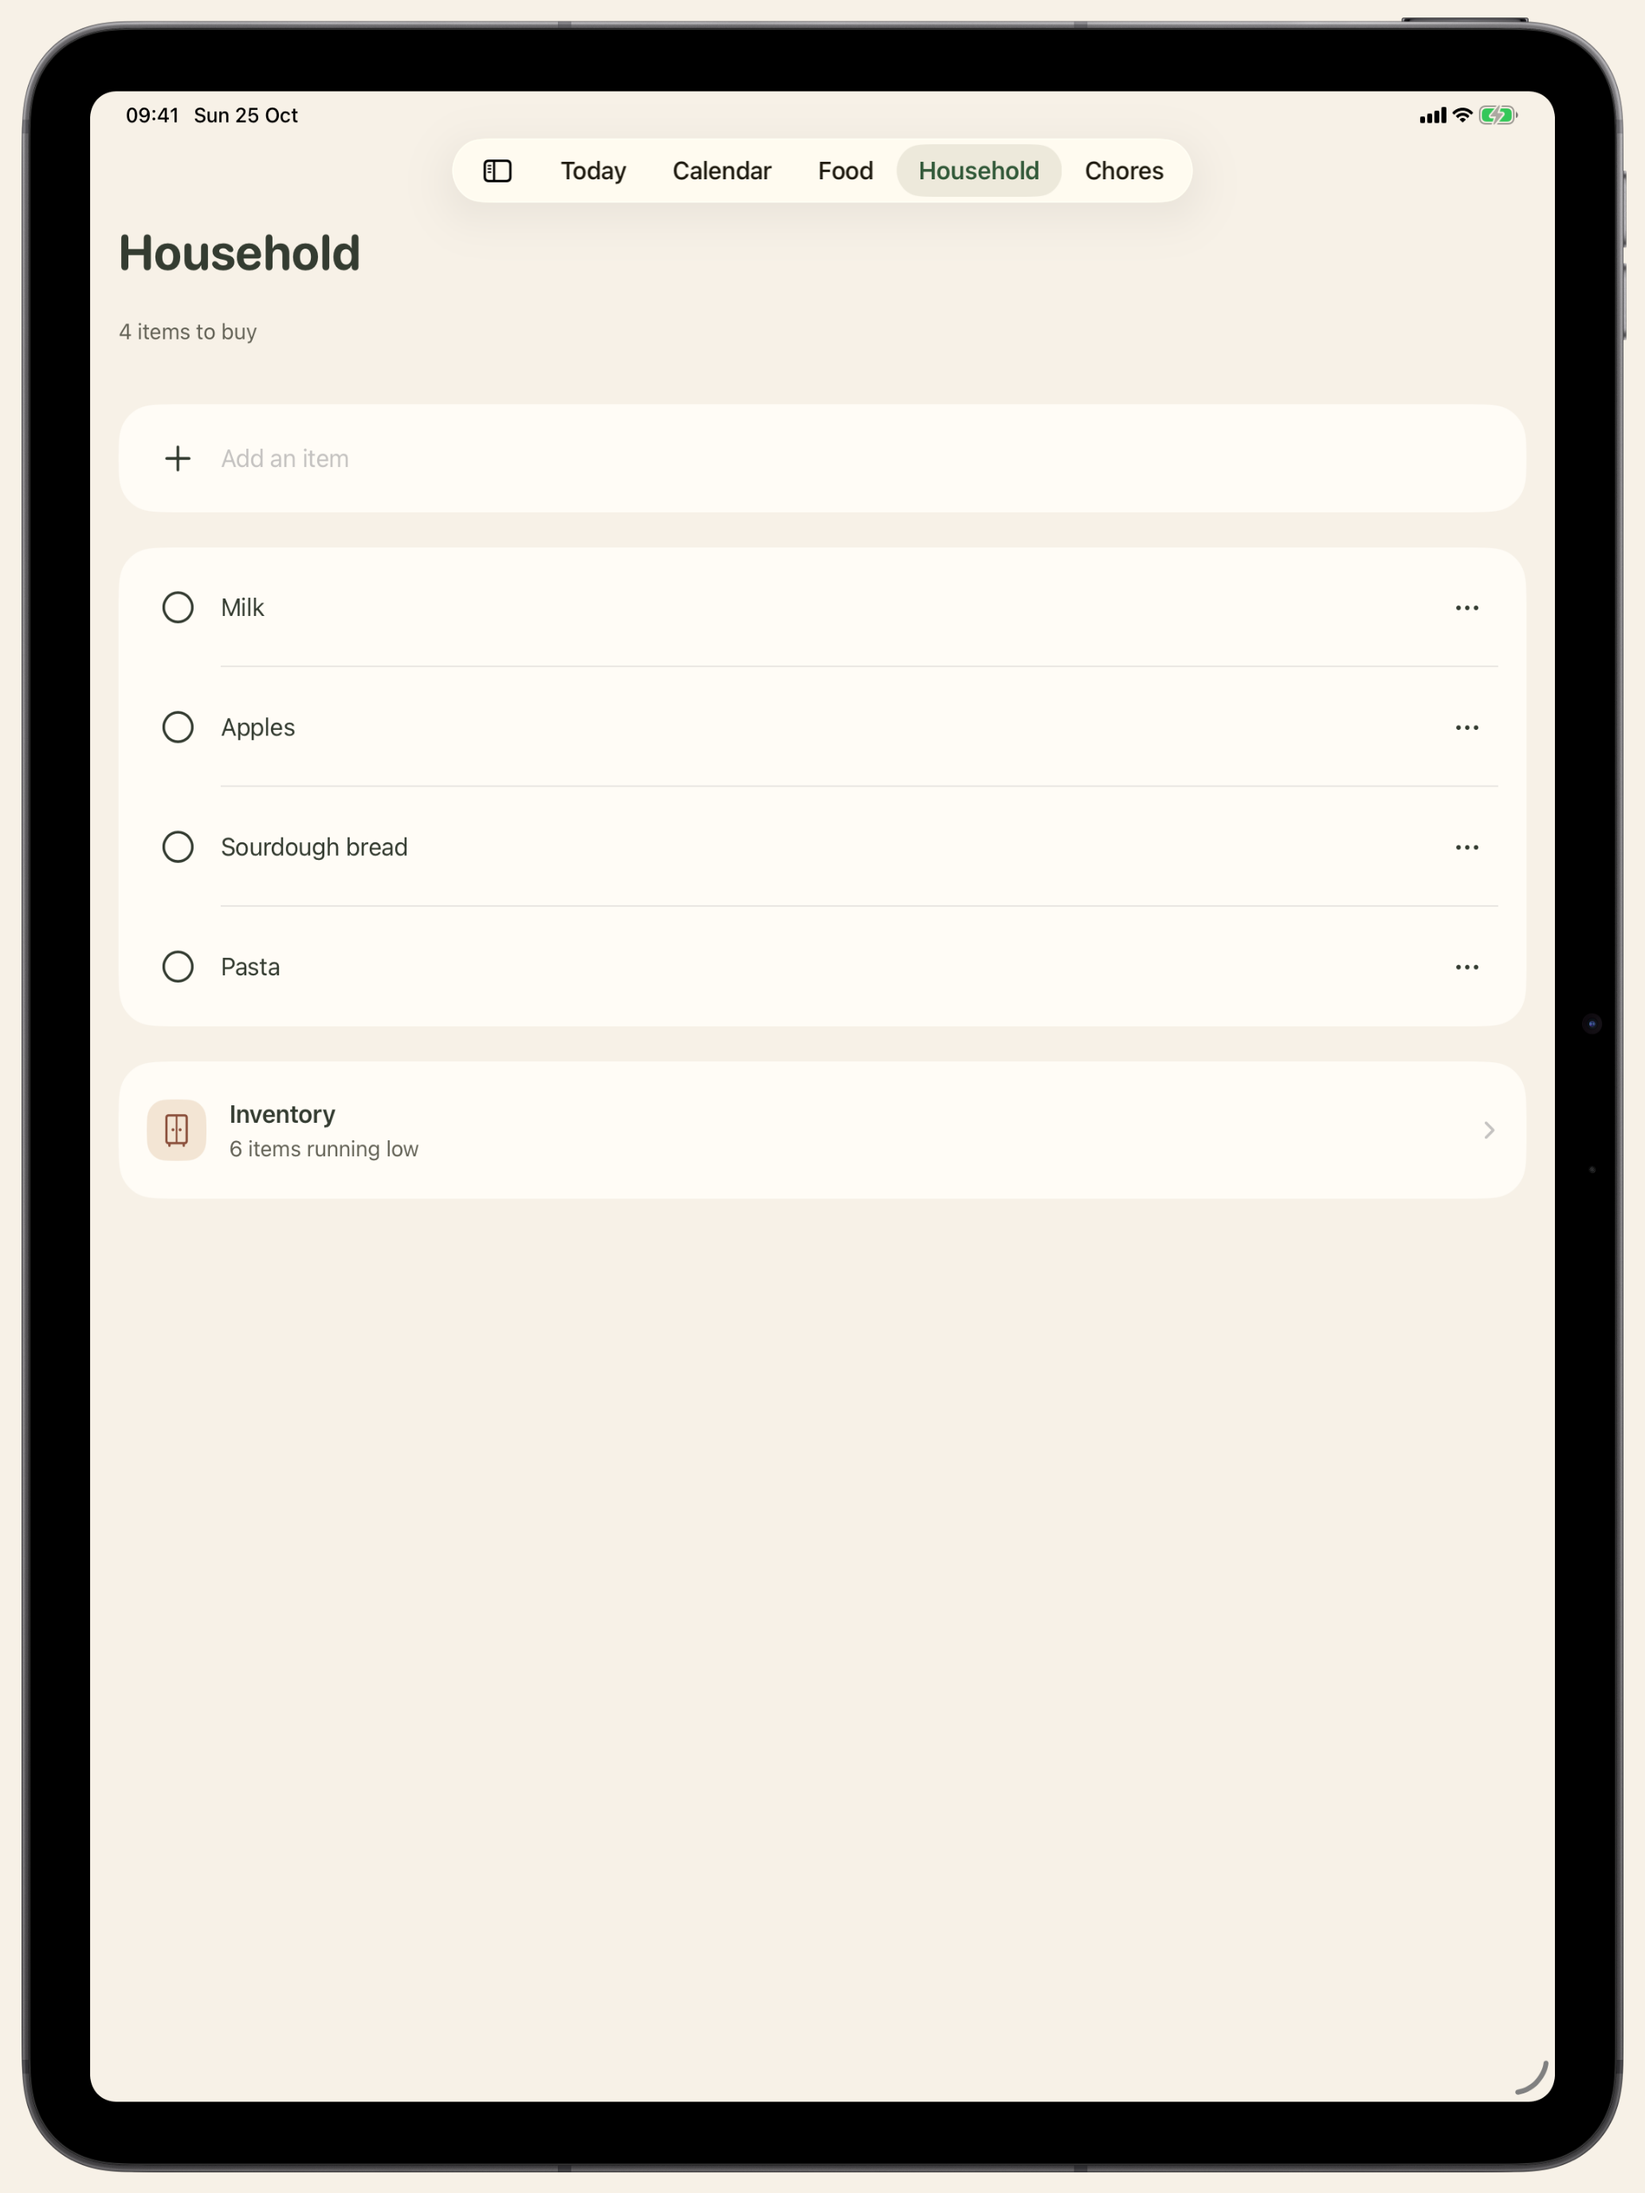
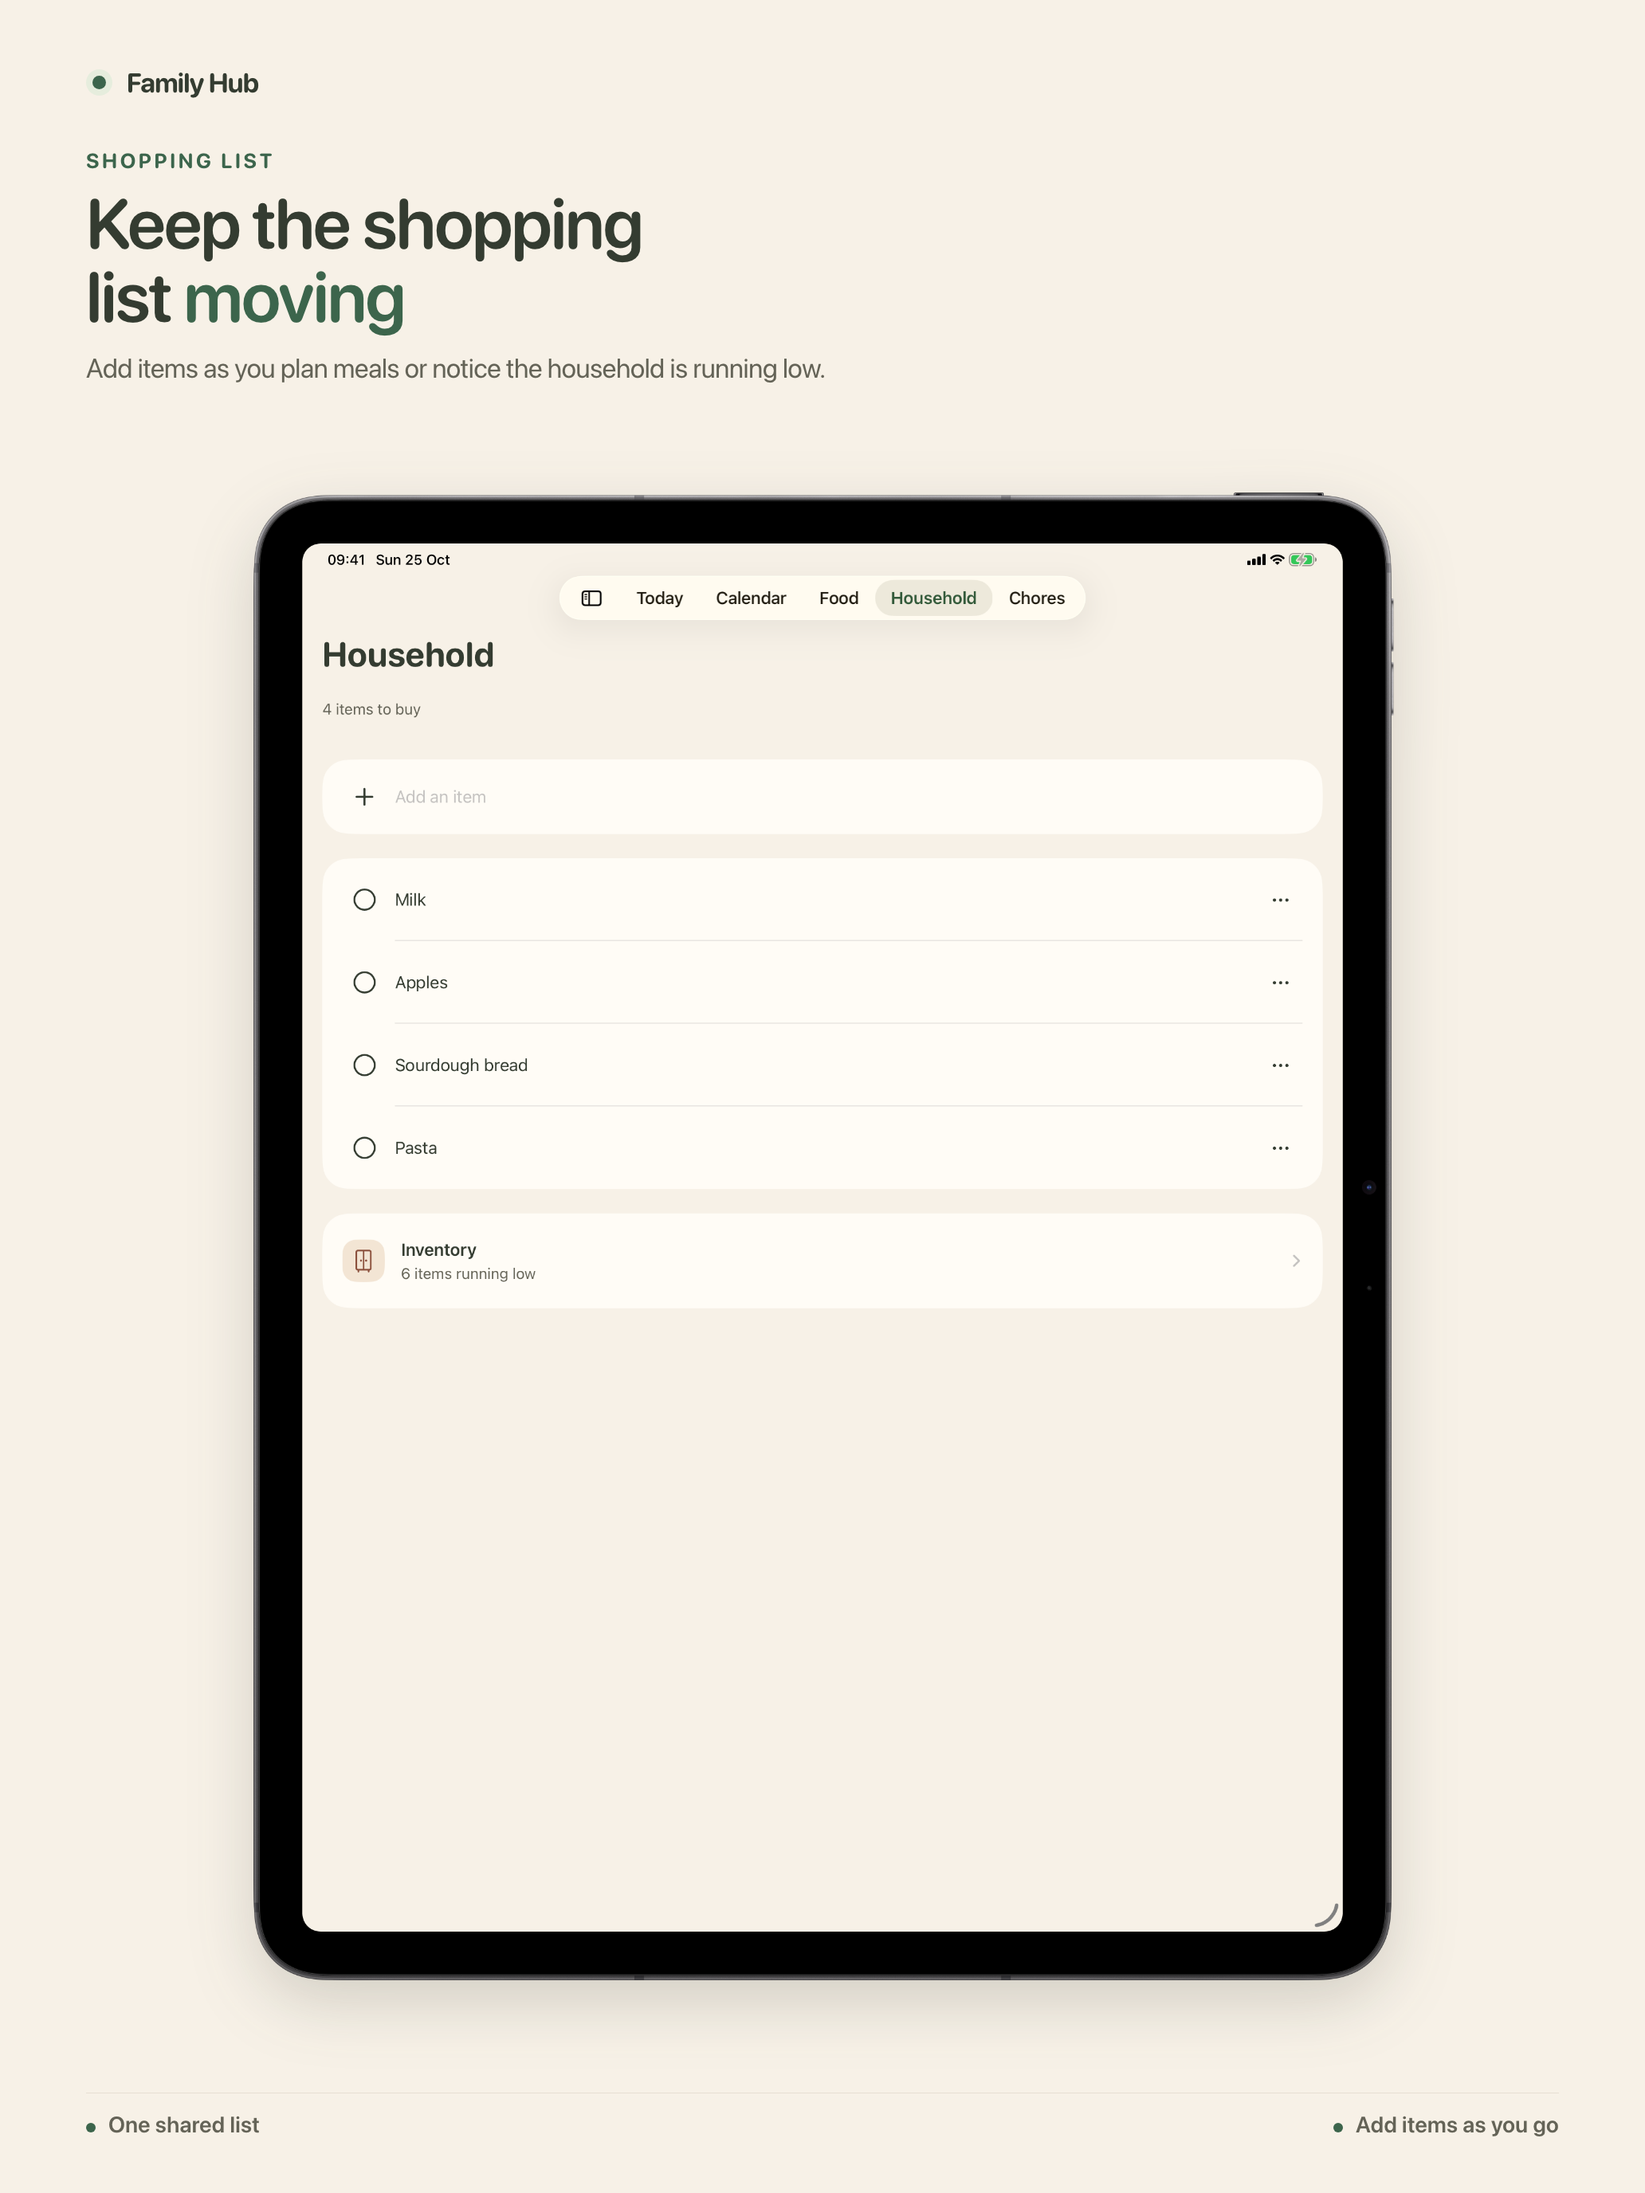
Add marketing layouts to iPad screenshots

diff --git a/ios/marketing/screenshots/slides/ipad-frame.html b/ios/marketing/screenshots/slides/ipad-frame.html
@@ -3,44 +3,142 @@
 <head>
 <meta charset="utf-8">
 <meta name="viewport" content="width=device-width, initial-scale=1">
-<title>Family Hub on iPad</title>
+<title>__EYEBROW__ — Family Hub on iPad</title>
 <style>
   * { box-sizing: border-box; }
+  @font-face {
+    font-family: "Family Hub Rounded";
+    src: url("file:///System/Library/Fonts/SFNSRounded.ttf") format("truetype");
+    font-weight: 100 900;
+  }
   html, body {
     width: 2064px;
     height: 2752px;
     margin: 0;
     overflow: hidden;
     background: #f7f1e7;
+    color: #343c31;
+    font-family: -apple-system, BlinkMacSystemFont, "SF Pro Text", sans-serif;
+    -webkit-font-smoothing: antialiased;
   }
-  .canvas {
-    position: relative;
+  main {
+    display: flex;
+    flex-direction: column;
     width: 100%;
     height: 100%;
-    background: #f7f1e7;
+    padding: 82px 108px 70px;
+  }
+  .brand {
+    display: flex;
+    align-items: center;
+    gap: 18px;
+    height: 42px;
+    font-family: "Family Hub Rounded", "SF Pro Rounded", ui-rounded, sans-serif;
+    font-size: 34px;
+    font-weight: 700;
+    letter-spacing: -0.02em;
+  }
+  .brand-mark {
+    width: 17px;
+    height: 17px;
+    margin: 0 8px;
+    border-radius: 50%;
+    background: #3c654c;
+    box-shadow: 0 0 0 8px #e6eddd;
+  }
+  .intro { margin-top: 62px; }
+  .eyebrow {
+    margin: 0 0 18px;
+    color: #3c654c;
+    font-family: "Family Hub Rounded", "SF Pro Rounded", ui-rounded, sans-serif;
+    font-size: 26px;
+    font-weight: 700;
+    letter-spacing: 0.14em;
+    text-transform: uppercase;
+  }
+  h1 {
+    max-width: 1800px;
+    margin: 0;
+    font-family: "Family Hub Rounded", "SF Pro Rounded", ui-rounded, sans-serif;
+    font-size: 88px;
+    font-weight: 600;
+    line-height: 1.04;
+    letter-spacing: -0.02em;
+  }
+  h1 mark { color: #3c654c; background: transparent; }
+  .dek {
+    max-width: 1560px;
+    margin: 22px 0 0;
+    color: #646357;
+    font-size: 34px;
+    line-height: 1.3;
+    letter-spacing: -0.02em;
+  }
+  .stage {
+    display: flex;
+    flex: 1;
+    min-height: 0;
+    align-items: center;
+    justify-content: center;
+    padding: 20px 0 24px;
+  }
+  .tablet {
+    position: relative;
+    height: 100%;
+    max-height: 1900px;
+    aspect-ratio: 2300 / 2980;
+    filter: drop-shadow(0 28px 40px rgba(52, 60, 49, 0.19));
   }
   .screen, .frame {
     position: absolute;
     display: block;
-    object-fit: fill;
   }
   .screen {
     left: 5.47826087%;
     top: 4.16107383%;
     width: 89.04347826%;
     height: 91.67785235%;
+    object-fit: fill;
   }
-  .frame {
-    inset: 0;
-    width: 100%;
-    height: 100%;
+  .frame { inset: 0; width: 100%; height: 100%; }
+  .benefits {
+    display: flex;
+    align-items: center;
+    justify-content: space-between;
+    gap: 24px;
+    padding-top: 22px;
+    border-top: 1px solid #e6dfd2;
+    color: #646357;
+    font-size: 28px;
+    font-weight: 600;
+  }
+  .benefit { white-space: nowrap; }
+  .benefit::before {
+    display: inline-block;
+    width: 12px;
+    height: 12px;
+    margin-right: 16px;
+    border-radius: 50%;
+    background: #3c654c;
+    content: "";
   }
 </style>
 </head>
 <body>
-  <main class="canvas">
-    <img class="screen" src="__CAPTURE_URL__" alt="Family Hub iPad screen">
-    <img class="frame" src="__FRAME_URL__" alt="">
+  <main>
+    <div class="brand"><span class="brand-mark" aria-hidden="true"></span><span>Family Hub</span></div>
+    <section class="intro">
+      <p class="eyebrow">__EYEBROW__</p>
+      <h1>__HEADLINE__</h1>
+      <p class="dek">__DEK__</p>
+    </section>
+    <div class="stage">
+      <div class="tablet">
+        <img class="screen" src="__CAPTURE_URL__" alt="Family Hub app screen">
+        <img class="frame" src="__FRAME_URL__" alt="">
+      </div>
+    </div>
+    <div class="benefits">__BENEFITS__</div>
   </main>
 </body>
 </html>

diff --git a/ios/marketing/screenshots/render-ipad-slide.py b/ios/marketing/screenshots/render-ipad-slide.py
@@ -1,0 +1,93 @@
+#!/usr/bin/env python3
+from html import escape
+from html.parser import HTMLParser
+from pathlib import Path
+import sys
+
+
+class SlideCopyParser(HTMLParser):
+    targets = {"eyebrow", "h1", "dek", "benefits"}
+    void_elements = {"area", "base", "br", "col", "embed", "hr", "img", "input", "link", "meta", "param", "source", "track", "wbr"}
+
+    def __init__(self):
+        super().__init__(convert_charrefs=True)
+        self.captures = {}
+        self.current = None
+        self.depth = 0
+
+    def handle_starttag(self, tag, attributes):
+        attribute_values = dict(attributes)
+        target = "h1" if tag == "h1" else next(
+            (name for name in self.targets if name in attribute_values.get("class", "").split()),
+            None,
+        )
+        if self.current is None and target is not None:
+            self.current = target
+            self.captures[target] = []
+            self.depth = 1
+            return
+
+        if self.current is None:
+            return
+
+        rendered_attributes = "".join(
+            f' {name}="{escape(value or "", quote=True)}"'
+            for name, value in attributes
+        )
+        self.captures[self.current].append(f"<{tag}{rendered_attributes}>")
+        if tag not in self.void_elements:
+            self.depth += 1
+
+    def handle_startendtag(self, tag, attributes):
+        if self.current is None:
+            return
+        rendered_attributes = "".join(
+            f' {name}="{escape(value or "", quote=True)}"'
+            for name, value in attributes
+        )
+        self.captures[self.current].append(f"<{tag}{rendered_attributes} />")
+
+    def handle_endtag(self, tag):
+        if self.current is None or tag in self.void_elements:
+            return
+        self.depth -= 1
+        if self.depth == 0:
+            self.current = None
+            return
+        self.captures[self.current].append(f"</{tag}>")
+
+    def handle_data(self, data):
+        if self.current is not None:
+            self.captures[self.current].append(escape(data))
+
+
+def main():
+    if len(sys.argv) != 6:
+        raise SystemExit("Usage: render-ipad-slide.py source-slide template output capture frame")
+
+    source_slide, template_path, output_path, capture_path, frame_path = map(Path, sys.argv[1:])
+    parser = SlideCopyParser()
+    parser.feed(source_slide.read_text())
+    required_copy = {"eyebrow", "h1", "dek", "benefits"}
+    missing = required_copy - parser.captures.keys()
+    if missing:
+        raise SystemExit(f"Missing marketing copy in {source_slide}: {', '.join(sorted(missing))}")
+
+    replacements = {
+        "__EYEBROW__": "".join(parser.captures["eyebrow"]),
+        "__HEADLINE__": "".join(parser.captures["h1"]),
+        "__DEK__": "".join(parser.captures["dek"]),
+        "__BENEFITS__": "".join(parser.captures["benefits"]),
+        "__CAPTURE_URL__": capture_path.resolve().as_uri(),
+        "__FRAME_URL__": frame_path.resolve().as_uri(),
+    }
+    rendered = template_path.read_text()
+    for marker, value in replacements.items():
+        if marker not in rendered:
+            raise SystemExit(f"Template marker {marker} is missing from {template_path}")
+        rendered = rendered.replace(marker, value)
+    output_path.write_text(rendered)
+
+
+if __name__ == "__main__":
+    main()

diff --git a/ios/marketing/screenshots/README.md b/ios/marketing/screenshots/README.md
@@ -40,11 +40,12 @@ in portrait. It writes the test result bundle under `$TMPDIR` and exports
 exactly ten screenshots into `raw/generated-ipad/` for App Store Connect.
 
 `render.sh <version>` writes ten iPhone App Store screenshots at 1206 × 2622
-px and ten framed iPad portrait screenshots at 2064 × 2752 px into the named
-version folder. The iPad frame uses `assets/ipad-frame.png`. The text-led
-self-hosting promo remains a marketing reference and is excluded from the
-ten-image upload sets. The iPad workflow creates portrait only because App
-Store Connect needs one orientation set for this listing.
+px and ten portrait iPad marketing slides at 2064 × 2752 px into the named
+version folder. Each iPad slide reuses its matching iPhone headline, copy, and
+benefits, then places the iPad capture inside `assets/ipad-frame.png`. The
+self-hosting promo remains a marketing reference outside both ten-image
+upload sets. The iPad workflow creates portrait only because App Store
+Connect needs one orientation set for this listing.
 
 Set `CHROME` to override the default Chrome executable path.
 Set `RESULT_BUNDLE` to keep the Xcode result bundle at a chosen path. By default, the bundle and derived data live under `$TMPDIR`.
@@ -80,7 +81,7 @@ The simulator flow records deterministic demo content. It does not change the no
 
 - `lib/slide.css` holds the shared cream, sage and clay palette, system typography, phone frame and benefit labels.
 - `assets/iphone-frame.png` and `assets/ipad-frame.png` supply the transparent device bezels.
-- `slides/*.html` holds the iPhone marketing layouts and the iPad frame layout.
-- `render.sh` checks every capture and output size before updating a version folder.
+- `slides/*.html` holds the iPhone marketing copy; `slides/ipad-frame.html` uses it for the tablet layout.
+- `render.sh` and `render-ipad-slide.py` check every capture and output size before updating a version folder.
 
 Update `DESIGN.md` first when the app's visual direction changes, then align these templates with its tokens and product language.
